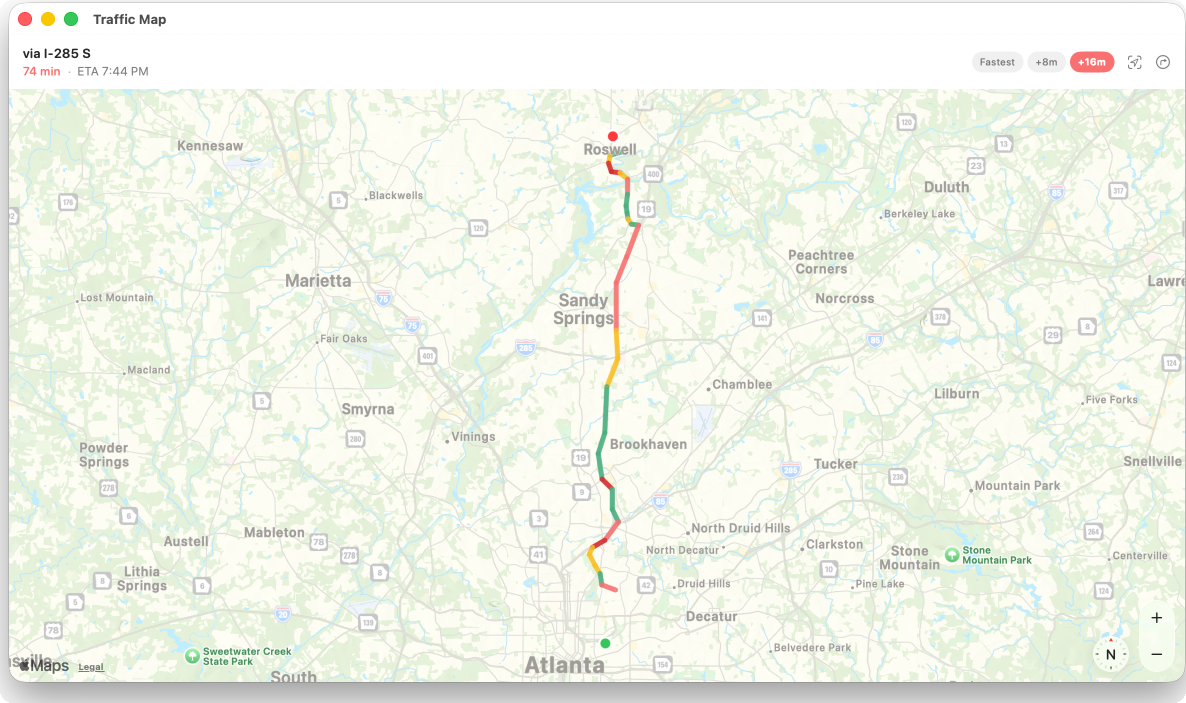
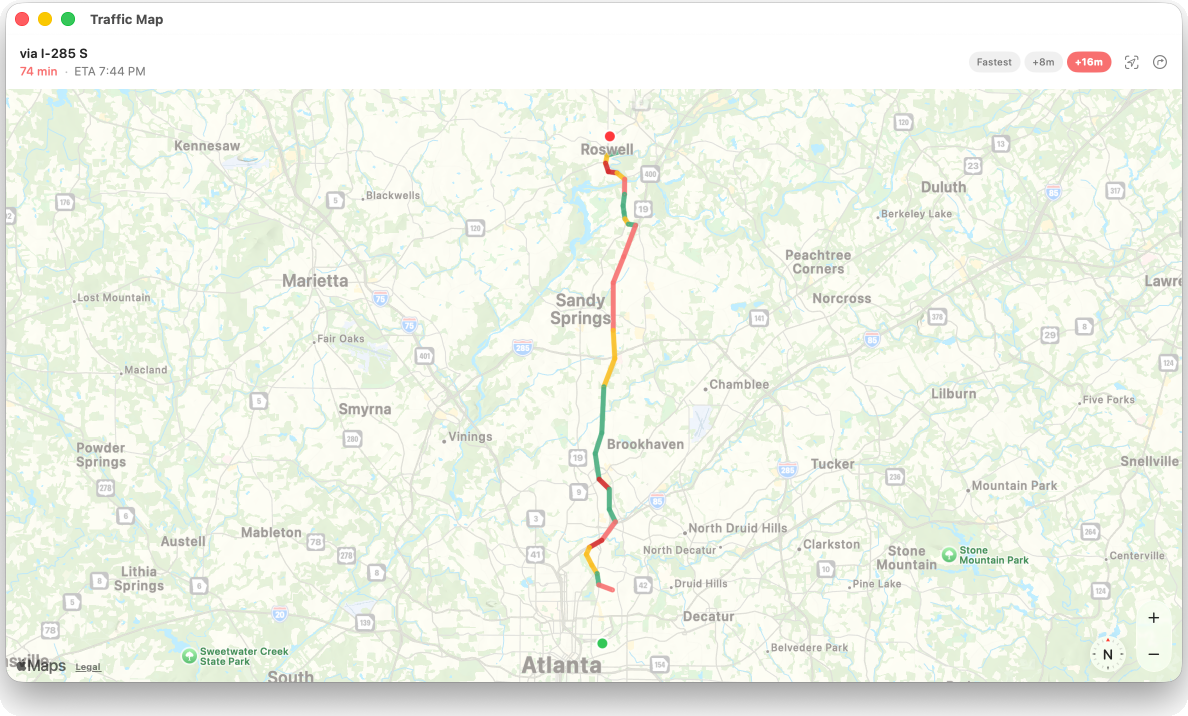
feat(site): update screenshots with 2x retina resolution
Replaces all screenshots with high-resolution 2x versions for crisp
display. Updates mood labels to match actual app text.

Changed region(s): [[0.0, 0.0, 1.0, 1.0], [0.8111, 0.0597, 0.8423, 0.0896]]

diff --git a/arrival-site/index.html b/arrival-site/index.html
@@ -320,24 +320,24 @@
 
       <div class="grid grid-cols-1 md:grid-cols-3 gap-8 items-start">
         <div class="flex flex-col items-center gap-4">
-          <img src="assets/screenshots/mood-good.png" alt="Arrival showing clear traffic — 32 min, Born to cruise" class="w-full max-w-[280px] rounded-2xl shadow-lg" />
+          <img src="assets/screenshots/mood-good.png" alt="Arrival showing clear traffic — 30 min, All clear captain" class="w-full max-w-[280px] rounded-2xl shadow-lg" />
           <div class="flex items-center gap-2">
             <span class="w-3 h-3 rounded-full bg-clear flex-shrink-0"></span>
-            <span class="text-2xl font-bold tracking-heading text-clear">"Born to cruise"</span>
+            <span class="text-2xl font-bold tracking-heading text-clear">"All clear, captain"</span>
           </div>
         </div>
         <div class="flex flex-col items-center gap-4">
-          <img src="assets/screenshots/mood-medium.png" alt="Arrival showing moderate traffic — 46 min, Coasting along" class="w-full max-w-[280px] rounded-2xl shadow-lg" />
+          <img src="assets/screenshots/mood-medium.png" alt="Arrival showing moderate traffic — 45 min, Taking its sweet time" class="w-full max-w-[280px] rounded-2xl shadow-lg" />
           <div class="flex items-center gap-2">
             <span class="w-3 h-3 rounded-full bg-moderate flex-shrink-0"></span>
-            <span class="text-2xl font-bold tracking-heading text-moderate">"Coasting along"</span>
+            <span class="text-2xl font-bold tracking-heading text-moderate">"Taking its sweet time"</span>
           </div>
         </div>
         <div class="flex flex-col items-center gap-4">
-          <img src="assets/screenshots/mood-bad.png" alt="Arrival showing heavy traffic — 79 min, Yikes on bikes" class="w-full max-w-[280px] rounded-2xl shadow-lg" />
+          <img src="assets/screenshots/mood-bad.png" alt="Arrival showing heavy traffic — 67 min, Send snacks" class="w-full max-w-[280px] rounded-2xl shadow-lg" />
           <div class="flex items-center gap-2">
             <span class="w-3 h-3 rounded-full bg-heavy flex-shrink-0"></span>
-            <span class="text-2xl font-bold tracking-heading text-heavy">"Yikes on bikes"</span>
+            <span class="text-2xl font-bold tracking-heading text-heavy">"Send snacks"</span>
           </div>
         </div>
       </div>
